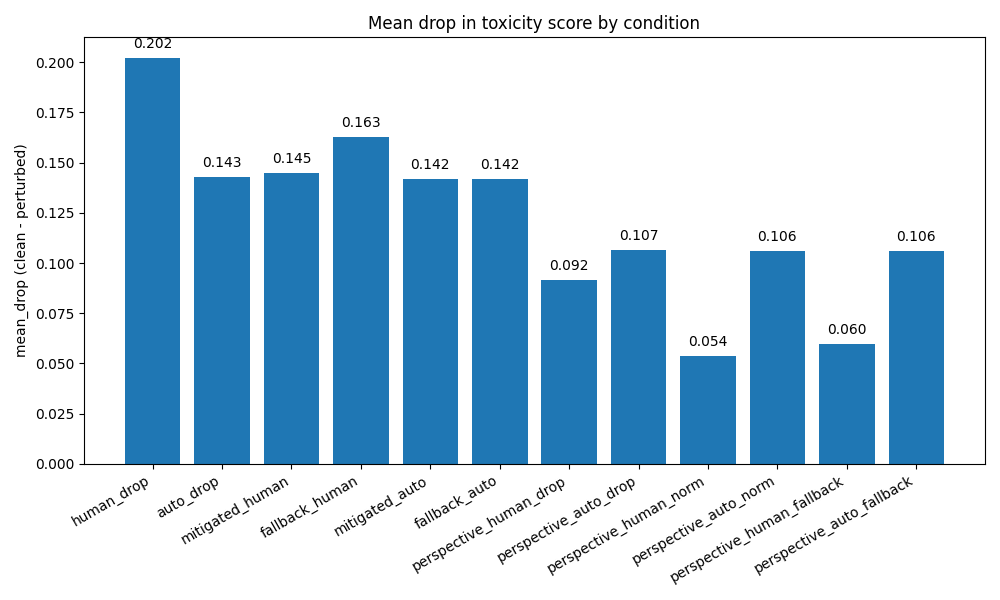
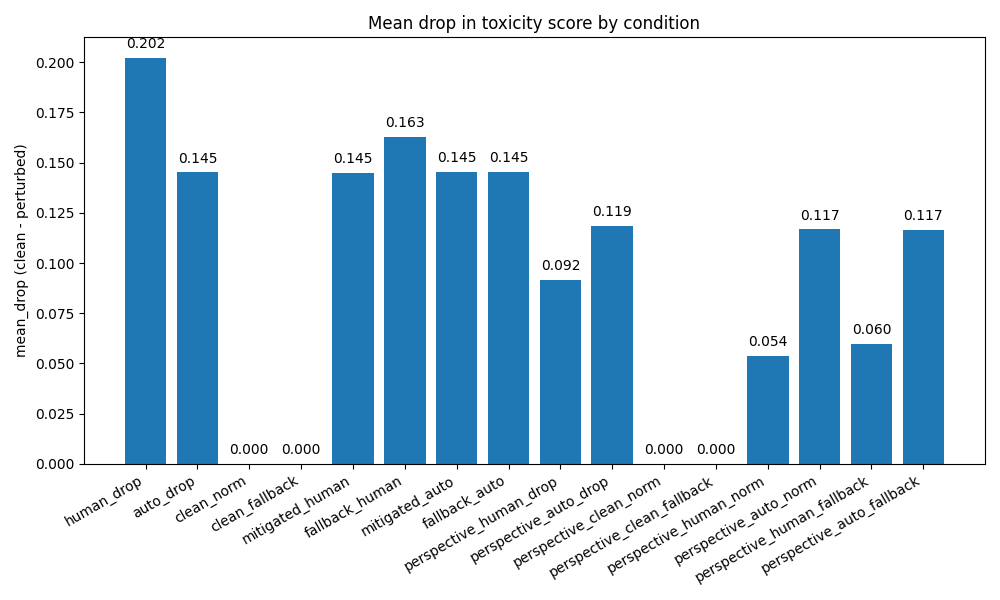
testing clean data

Changed region(s): [[0.062, 0.06, 0.961, 0.96]]

diff --git a/run.py b/run.py
@@ -20,6 +20,14 @@ def main():
     print("Evaluating Detoxify on clean texts...")
     clean_scores = evaluate_toxicity(texts_clean)
 
+    print("Applying normalisation mitigation (clean)...")
+    mitigated_clean_texts = [normalise_text(t) for t in texts_clean]
+    mitigated_clean_scores = evaluate_toxicity(mitigated_clean_texts)
+
+    print("Applying detection + fallback mitigation (clean)...")
+    fallback_clean_scores = detect_and_fallback(texts_clean, fallback_fn=evaluate_toxicity)
+
+
     print("Evaluating Detoxify on human perturbed texts...")
     human_scores = evaluate_toxicity(texts_human)
 
@@ -47,6 +55,15 @@ def main():
     try:
         print("\nEvaluating Perspective API on clean texts...")
         persp_clean = evaluate_perspective(texts_clean)
+
+        print("Applying normalisation mitigation (Perspective, clean)...")
+        persp_clean_norm = evaluate_perspective(mitigated_clean_texts)
+
+        print("Applying detection + fallback mitigation (Perspective, clean)...")
+        persp_clean_fallback = evaluate_perspective(
+            detect_and_fallback(texts_clean, fallback_fn=lambda x: x)
+        )
+
 
         print("Evaluating Perspective API on human perturbed texts...")
         persp_human = evaluate_perspective(texts_human)
@@ -78,6 +95,10 @@ def main():
             "perspective_human_drop": compare_toxicity_scores(persp_clean, persp_human),
             "perspective_auto_drop": compare_toxicity_scores(persp_clean, persp_auto),
 
+            # Perspective clean mitigations
+            "perspective_clean_norm": compare_toxicity_scores(persp_clean, persp_clean_norm),
+            "perspective_clean_fallback": compare_toxicity_scores(persp_clean, persp_clean_fallback),
+
             # Normalisation mitigation
             "perspective_human_norm": compare_toxicity_scores(persp_clean, persp_human_norm),
             "perspective_auto_norm": compare_toxicity_scores(persp_clean, persp_auto_norm),
@@ -97,6 +118,9 @@ def main():
         # Detoxify baselines
         "human_drop": compare_toxicity_scores(clean_scores, human_scores),
         "auto_drop": compare_toxicity_scores(clean_scores, auto_scores),
+        # Detoxify clean mitigations
+        "clean_norm": compare_toxicity_scores(clean_scores, mitigated_clean_scores),
+        "clean_fallback": compare_toxicity_scores(clean_scores, fallback_clean_scores),
         # Detoxify mitigations
         "mitigated_human": compare_toxicity_scores(clean_scores, mitigated_human_scores),
         "fallback_human": compare_toxicity_scores(clean_scores, fallback_human_scores),
